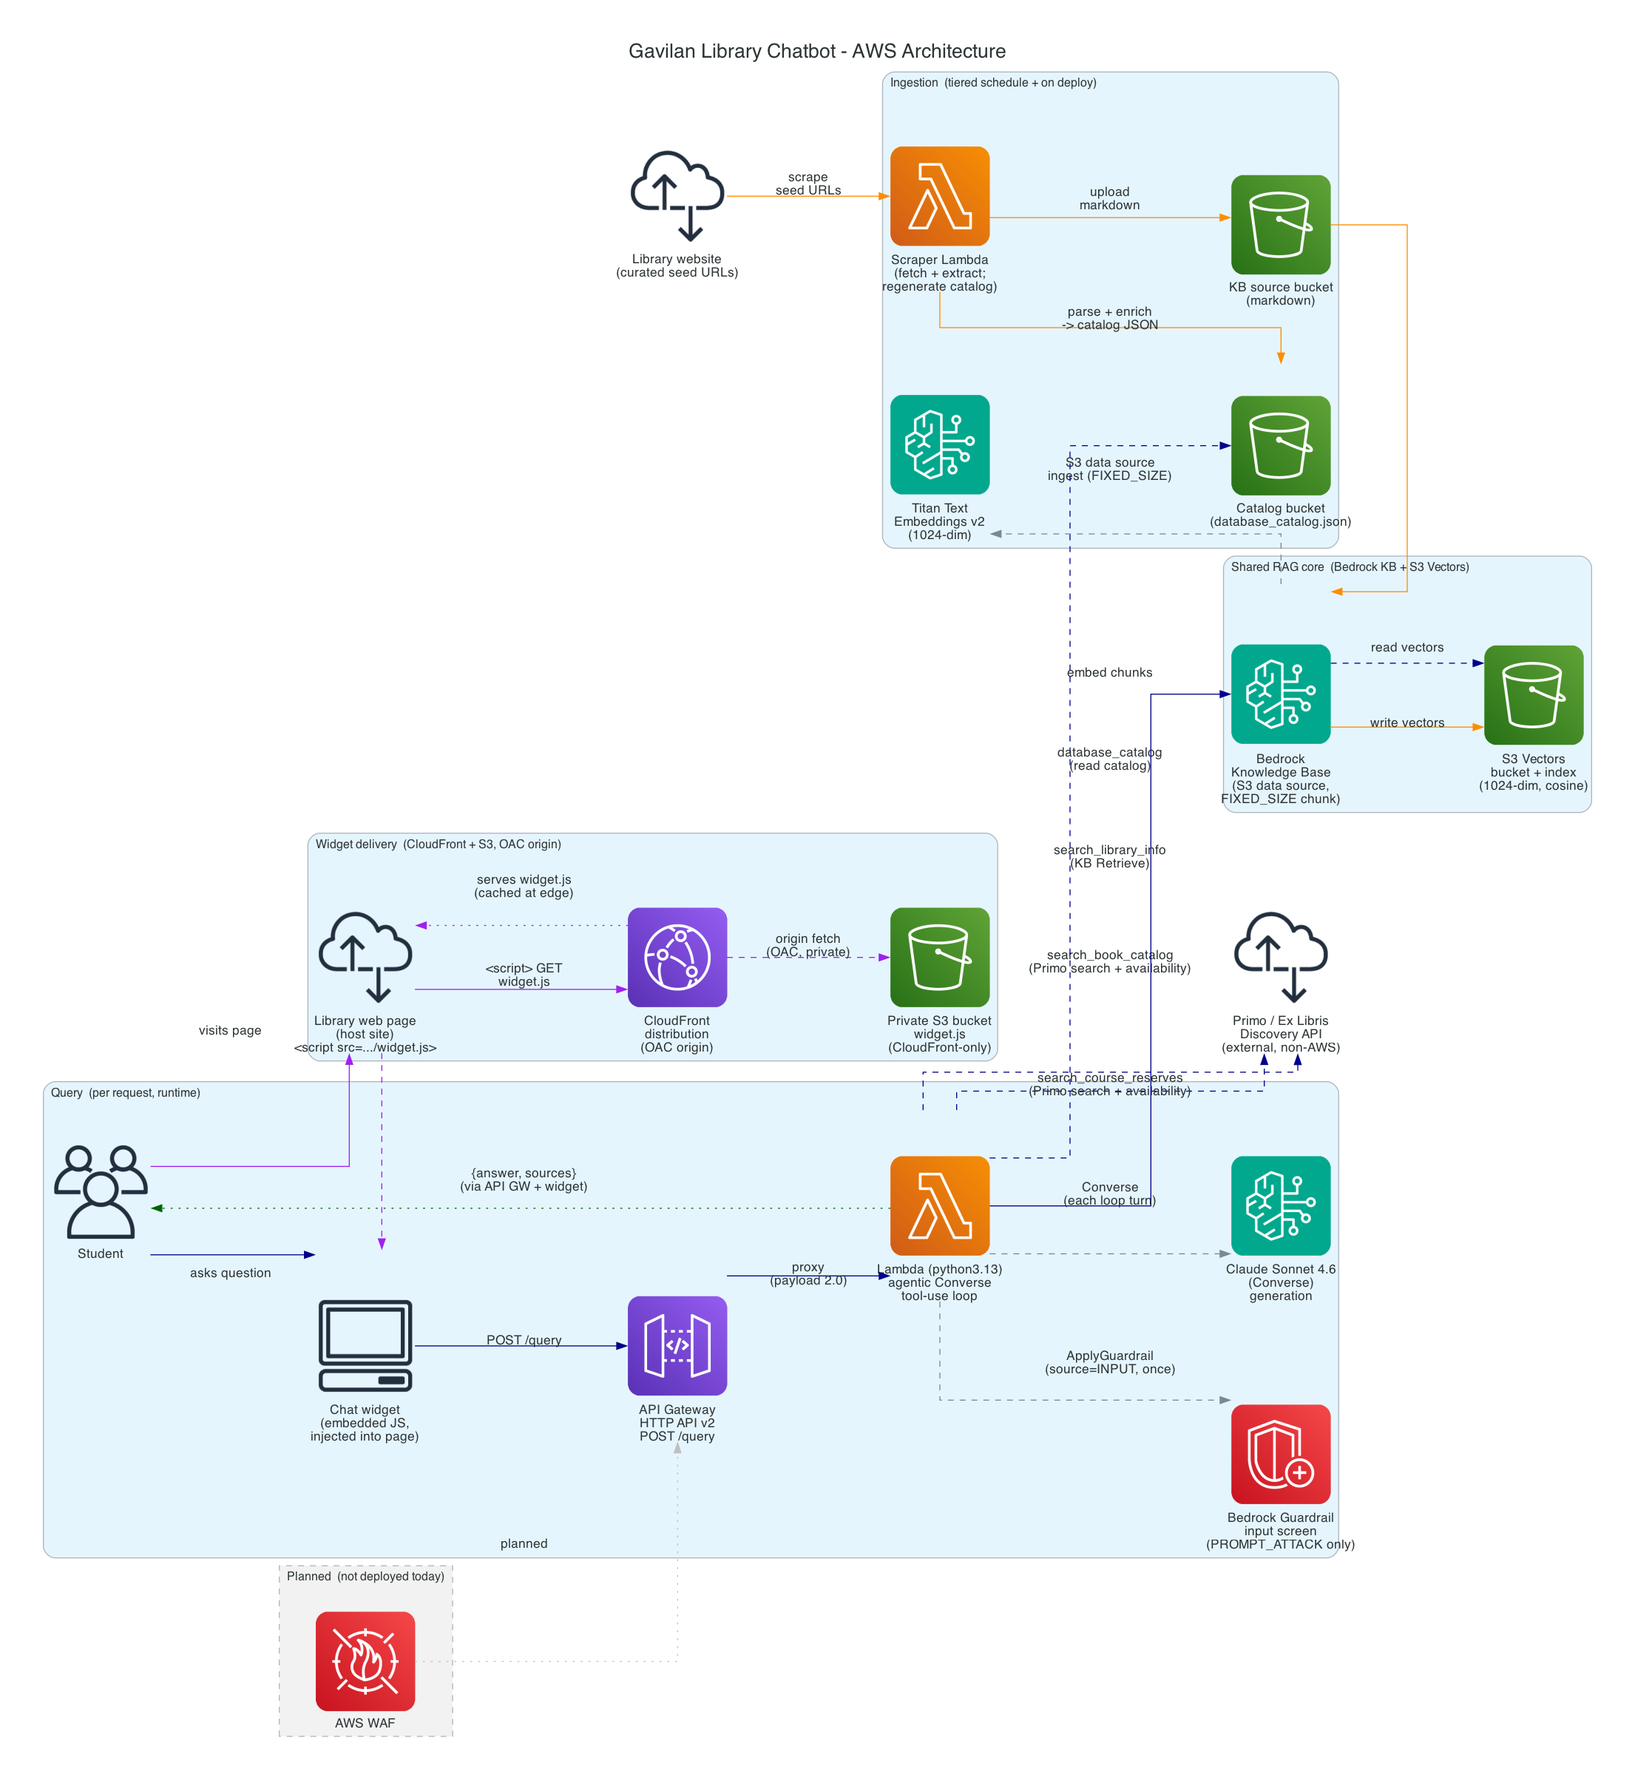
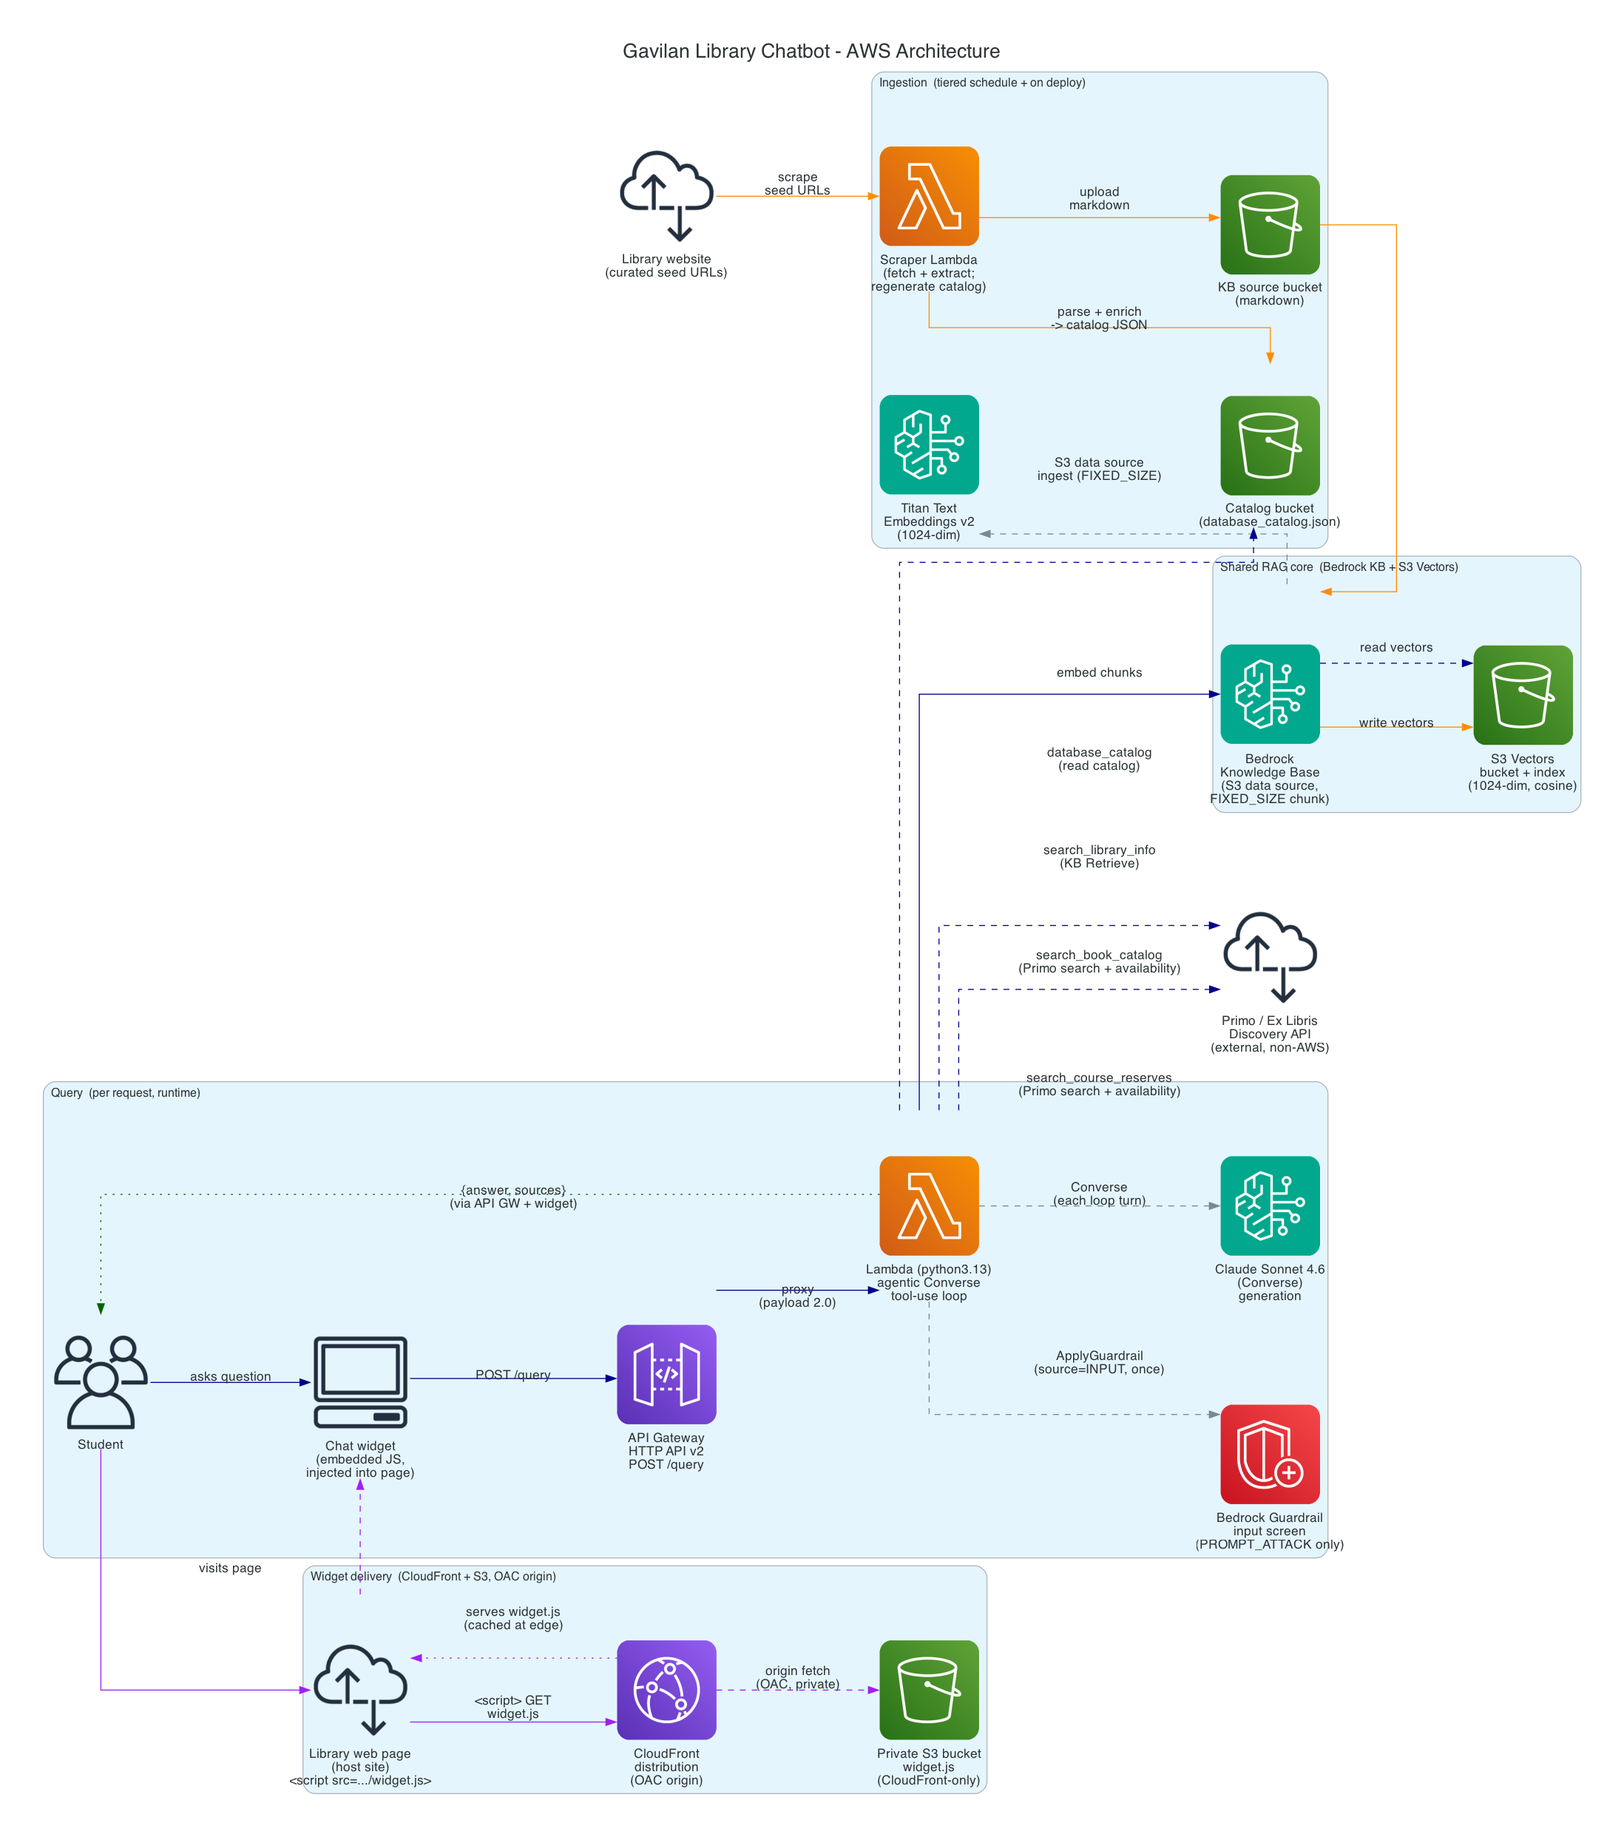
docs: restructure README and drop WAF from the architecture diagram
Reshapes the README to match the DxHub house format: an index table at the
top, and Collaboration + Disclaimers moved to the bottom where they belong
instead of sitting above the project itself. Sections renamed to the shared
vocabulary (Overview / Description / Deployment / Configuration Reference /
Usage) and a Usage section added covering the embed tag, theming, feedback
and the evals.

Drops the Demo site section. The demo site still deploys and still has its
DemoSiteUrl output; it just does not need a third of the README.

Separately, removes AWS WAF from the architecture diagram. It sat in a
"Planned" cluster, but WAF is excluded from this design rather than pending -
it cannot attach to an HTTP API v2, and stage-level throttling is the real
cost-abuse control. Drawing it as planned promises something nobody intends
to build. PNG regenerated from the .py source.

diff --git a/docs/architecture_diagram.py b/docs/architecture_diagram.py
@@ -34,7 +34,9 @@ app/handler.py, scraper/):
     the same stack. A separate concern from the query path - this ships the widget CODE to the
     browser, and the injected widget then uses the query path.
 
-WAF is not deployed, which is why it alone sits in the "Planned" group.
+Only deployed resources are drawn. WAF in particular is excluded from the architecture rather
+than pending - it cannot attach to an HTTP API v2, and stage-level throttling is the real
+cost-abuse control - so it does not belong on this diagram in any form.
 """
 
 import os
@@ -44,7 +46,7 @@ from diagrams.aws.compute import Lambda
 from diagrams.aws.general import Client, InternetAlt1, Users
 from diagrams.aws.ml import Bedrock
 from diagrams.aws.network import APIGateway, CloudFront
-from diagrams.aws.security import Shield, WAF
+from diagrams.aws.security import Shield
 from diagrams.aws.storage import S3
 
 # Write the PNG next to this file (docs/) regardless of the current working directory.
@@ -93,9 +95,6 @@ with Diagram(
         cdn = CloudFront("CloudFront\ndistribution\n(OAC origin)")
         widget_bucket = S3("Private S3 bucket\nwidget.js\n(CloudFront-only)")
 
-    with Cluster("Planned  (not deployed today)", graph_attr={"style": "dashed", "bgcolor": "gray95"}):
-        waf = WAF("AWS WAF")
-
     # --- Ingestion flow: scrape -> S3 markdown + catalog -> KB ingest -> embed -> WRITE vectors ---
     library_site >> Edge(color="darkorange", label="scrape\nseed URLs") >> scraper
     scraper >> Edge(color="darkorange", label="upload\nmarkdown") >> source_bucket
@@ -131,6 +130,3 @@ with Diagram(
     cdn >> Edge(color="purple", style="dashed", label="origin fetch\n(OAC, private)") >> widget_bucket
     cdn >> Edge(color="purple", style="dotted", label="serves widget.js\n(cached at edge)") >> host_page
     host_page >> Edge(color="purple", style="dashed", label="widget injects,\nthen POST /query") >> widget
-
-    # --- Planned components (drawn distinct; no real traffic today) ---
-    waf >> Edge(color="gray", style="dotted", label="planned") >> api

diff --git a/README.md b/README.md
@@ -1,77 +1,70 @@
-# Collaboration
-
-Thanks for your interest in our solution. Having specific examples of replication and cloning allows us to continue to grow and scale our work. If you clone or download this repository, kindly shoot us a quick email to let us know you are interested in this work!
-
-[wwps-cic@amazon.com]
-
----
-
-# Disclaimers 
-
-Customers are responsible for making their own independent assessment of the information in this document. 
-
-This document: 
-
-(a) is for informational purposes only, 
-
-(b) references AWS product offerings and practices, which are subject to change without notice, 
-
-(c) does not create any commitments or assurances from AWS and its affiliates, suppliers or licensors. AWS products or services are provided "as is" without warranties, representations, or conditions of any kind, whether express or implied. The responsibilities and liabilities of AWS to its customers are controlled by AWS agreements, and this document is not part of, nor does it modify, any agreement between AWS and its customers, and 
-
-(d) is not to be considered a recommendation or viewpoint of AWS. 
-
-Additionally, you are solely responsible for testing, security and optimizing all code and assets on GitHub repo, and all such code and assets should be considered: 
-
-(a) as-is and without warranties or representations of any kind, 
-
-(b) not suitable for production environments, or on production or other critical data, and 
-
-(c) to include shortcuts in order to support rapid prototyping such as, but not limited to, relaxed authentication and authorization and a lack of strict adherence to security best practices. 
-
-All work produced is open source. More information can be found in the GitHub repo.
-
 # Gavilan Library Chatbot
 
-After-hours RAG chatbot for Gavilan College Library. It answers common student questions (hours, checkout, textbooks, what the library offers) when librarians are offline, and points research questions to a human librarian. Built with Cal Poly DxHub.
+## Index
 
-## Stack
+| Section | Purpose |
+|---------|---------|
+| [Overview](#overview) | What this is and who it is for |
+| [Description](#description) | Technology stack and repository structure |
+| [Architecture](#architecture) | Diagram and full design write-up |
+| [Deployment](#deployment) | Prerequisites and install steps |
+| [Configuration Reference](#configuration-reference) | `config.yaml` settings |
+| [Usage](#usage) | Embedding the widget, theming, feedback, evals |
+| [License](#license) | Project licensing details |
+| [Collaboration](#collaboration) | Contact information for the team |
+| [Disclaimers](#disclaimers) | Legal and usage disclaimers |
 
-AWS-native:
+## Overview
+
+After-hours RAG chatbot for Gavilan College Library. It answers common student questions (hours,
+checkout, textbooks, what the library offers) when librarians are offline, and points research
+questions to a human librarian. Built with Cal Poly DxHub.
+
+It is deliberately not an AI research librarian. The scope is operational questions a student
+would otherwise ask at the desk, answered from the library's own website plus the live catalog,
+with a human handoff for anything past that.
+
+## Description
+
+**Tech stack overview** (AWS-native):
 
 - **RAG:** Amazon Bedrock Managed Knowledge Base (S3 data source) over an Amazon S3 Vectors store (Titan Embed v2, 1024-dim, semantic search)
 - **Generation:** Bedrock-hosted Claude via an agentic Converse tool-use loop
 - **Tools:** `search_library_info` (KB retrieval), `database_catalog` (research-database availability + subject lookup), `search_book_catalog` (Primo general catalog), and `search_course_reserves` (Primo course reserves)
-- **Live catalog:** `search_book_catalog` + `search_course_reserves` query the Ex Libris Primo discovery API directly - the only external, non-AWS dependency (timed out and soft-failing so a slow/broken Primo never blocks a response)
-- **Ingestion:** a scraper Lambda pulls the library site into the KB source bucket and regenerates the database catalog on a weekly schedule
-- **Backend:** Lambda + API Gateway (Python)
-- **Feedback:** `POST /feedback` emails a librarian, via SNS, when someone reports a wrong answer - carrying the pages that answer cited, because fixing the page fixes the bot. Set `feedback.notify_email` in `config.yaml` to switch it on
+- **Live catalog:** `search_book_catalog` + `search_course_reserves` query the Ex Libris Primo discovery API directly - the only external, non-AWS dependency (timed out and soft-failing so a slow or broken Primo never blocks a response)
+- **Ingestion:** a scraper Lambda pulls the library site into the KB source bucket and regenerates the database catalog on a tiered schedule - hours pages daily, the full sweep every five days - with every downstream step change-gated
+- **Backend:** Lambda + API Gateway HTTP API v2 (Python)
+- **Feedback:** `POST /feedback` emails a librarian, via SNS, when someone reports a wrong answer - carrying the pages that answer cited, because fixing the page fixes the bot
 - **Infrastructure:** AWS CDK (Python)
 - **Guardrails:** one Bedrock Guardrail, screening the input for prompt injection only (no other content filter, no PII policy, nothing on the output)
-- **Frontend:** embeddable JS widget, plus a deployed demo page that embeds it
+- **Frontend:** an embeddable, dependency-free JS widget, bilingual (English + Español), themeable at runtime without a redeploy
 
-## Structure
+**Repository structure:**
 
-- `infra/` — CDK app (Knowledge Base, S3 Vectors store, scraper, catalog bucket, Lambda, API Gateway, IAM)
-- `app/` — Lambda backend (agentic tool-use loop + tools)
-- `eval/` — retrieval and answer-quality evaluation harness
-- `frontend/` — chat widget and the deployed demo page
-- `config.yaml` — model, chunking, retrieval, catalog, feedback, and guardrail settings
-- `docs/` — the [install guide](docs/install.md), architecture, and planning
+- `infra/` - CDK app (Knowledge Base, S3 Vectors store, scraper, catalog bucket, Lambdas, API Gateway, IAM)
+- `app/` - Lambda backend (agentic tool-use loop + tools, feedback handler, theme handler)
+- `scraper/` - the ingestion Lambda and its shared fetch/extract code
+- `eval/` - retrieval and answer-quality evaluation harness
+- `frontend/` - chat widget, theming pages, and the demo page
+- `config.yaml` - model, chunking, retrieval, catalog, feedback, and guardrail settings
+- `docs/` - the [install guide](docs/install.md), architecture, and planning
 
 ## Architecture
 
 ![Architecture diagram](docs/architecture_diagram.png)
 
-Full design: [`docs/architecture.md`](docs/architecture.md).
+Full design, including the paths the diagram leaves out: [`docs/architecture.md`](docs/architecture.md).
 
-## Install
+## Deployment
 
 **[`docs/install.md`](docs/install.md) is the install guide**: AWS prerequisites, the one config
 value to set first, `cdk deploy`, pasting the embed tag onto your site, and setting up the
 librarian's settings page. Read it before you deploy.
 
-The short version, once you have credentials, Bedrock model access, Node.js, the CDK CLI pinned
-to `2.1129.0`, and a bootstrapped account/region:
+**Prerequisites:** AWS credentials, Bedrock model access, Node.js, the CDK CLI (built against
+`2.1129.0`), Python 3.13, and a bootstrapped account/region.
+
+**Steps:**
 
 ```bash
 cd infra
@@ -84,30 +77,81 @@ python -m pytest   # unit tests (boto3 stubbed, no live AWS)
 cdk deploy     # needs AWS credentials + a bootstrapped account
 ```
 
-`cdk deploy` provisions everything (KB, S3 Vectors store, scraper, catalog bucket, query Lambda, HTTP API, the guardrail, the CloudFront-fronted widget, and the demo site) and outputs a paste-ready embed tag, the CloudFront domain, the `/query` URL, and the demo site URL. CloudFront is slow to create and destroy (~15-30 min each), so the first deploy takes a while. Tear down with `cdk destroy`.
+`cdk deploy` provisions everything (KB, S3 Vectors store, scraper, catalog bucket, query Lambda,
+HTTP API, the guardrail, and the CloudFront-fronted widget) and outputs a paste-ready embed tag,
+the CloudFront domain, the `/query` URL, and the settings-editor URL. CloudFront is slow to create
+and destroy (~15-30 min each), so the first deploy takes a while. Tear down with `cdk destroy`.
 
-All changeable settings live in `config.yaml` at the repo root (the CDK app reads it at synth). The eval harness has its own separate config; see [`eval/README.md`](eval/README.md).
+## Configuration Reference
 
-## Demo site
+All changeable settings live in `config.yaml` at the repo root; the CDK app reads it at synth. Key
+sections:
 
-The deploy also publishes a shareable demo page — the `DemoSiteUrl` output. Open it and the
-chat widget is already there and already working: no local server, no config, nothing to paste.
+- **`knowledge_base` / `vector_store` / `data_source` / `chunking`** - embedding model, index
+  dimensions and distance metric, and how documents are split
+- **`scraper`** - the freshness tiers: each tier's cron and its seed URLs, plus KB exclusions
+- **`retrieval` / `generation`** - passages per retrieval, the generation model, token caps
+- **`catalog` / `library_links` / `primo`** - the database catalog, the curated canonical URLs, and
+  Primo API wiring
+- **`http_api` / `cors`** - throttling and the exact-match origin allowlist (a wildcard is rejected
+  at synth)
+- **`feedback`** - the librarian notification address and the request caps
+- **`guardrail`** - the input prompt-injection screen and its blocked-input message
+- **`cost_model`** - published rates and measured per-question constants
 
-It is the real thing, not a mockup of one. The page loads the same `widget.js` from the same
-CloudFront distribution the library would embed, and posts to the same `/query` endpoint, so it
-cannot drift from what ships. Both URLs are stamped into the page **at deploy time**, so a fresh
-install in a different AWS account gets a correct page with no hand-editing.
+The eval harness has its own separate config; see [`eval/README.md`](eval/README.md).
 
-The page around the widget is a Gavilan-Library-styled sample (hand-written CSS; nothing is
-fetched from gavilan.edu) so the widget can be seen in context. It is labelled as a demo in a
-banner at the top and served `noindex` both as a meta tag and as an `X-Robots-Tag` header.
+## Usage
 
-It lives on its own S3 bucket and its own CloudFront distribution, separate from the widget's, so
-nothing about it can affect production widget delivery. Turn it off with `demo_site.enabled:
-false` in `config.yaml` and the next deploy removes the bucket, the distribution, and the CORS
-entry that goes with it.
+**Embedding the widget.** The deploy outputs a one-line `<script>` tag. Paste it onto the library
+page and the widget mounts itself - no build step, no dependencies, no credentials in the tag.
+
+**Theming.** The highlight colour, the font and the starter questions are read at runtime from a
+`theme.json` at the widget bucket root, so a librarian can change them without a redeploy. The
+deploy outputs a hosted settings editor for exactly that; see
+[`docs/widget-theming.md`](docs/widget-theming.md).
+
+**Reporting a bad answer.** `POST /feedback` emails the librarian the question, the answer, and the
+pages that answer cited. There is no server-side store by design - the email is the record. The fix
+is usually a webpage edit: correct the page, and the next scheduled scrape of that page's tier
+corrects the bot. Set `feedback.notify_email` in `config.yaml` to switch it on.
+
+**Evaluation.** `eval/` holds the retrieval probe, the offline chunking eval, and a promptfoo
+answer-quality suite. The offline parts run with no credentials; the rest need a deployed stack and
+cost money per run.
 
 ## License
 
 MIT. See [LICENSE](LICENSE).
 
+## Collaboration
+
+Thanks for your interest in our solution. Having specific examples of replication and cloning
+allows us to continue to grow and scale our work. If you clone or download this repository, kindly
+shoot us a quick email to let us know you are interested in this work!
+
+[wwps-cic@amazon.com]
+
+## Disclaimers
+
+Customers are responsible for making their own independent assessment of the information in this document.
+
+This document:
+
+(a) is for informational purposes only,
+
+(b) references AWS product offerings and practices, which are subject to change without notice,
+
+(c) does not create any commitments or assurances from AWS and its affiliates, suppliers or licensors. AWS products or services are provided "as is" without warranties, representations, or conditions of any kind, whether express or implied. The responsibilities and liabilities of AWS to its customers are controlled by AWS agreements, and this document is not part of, nor does it modify, any agreement between AWS and its customers, and
+
+(d) is not to be considered a recommendation or viewpoint of AWS.
+
+Additionally, you are solely responsible for testing, security and optimizing all code and assets on GitHub repo, and all such code and assets should be considered:
+
+(a) as-is and without warranties or representations of any kind,
+
+(b) not suitable for production environments, or on production or other critical data, and
+
+(c) to include shortcuts in order to support rapid prototyping such as, but not limited to, relaxed authentication and authorization and a lack of strict adherence to security best practices.
+
+All work produced is open source. More information can be found in the GitHub repo.
